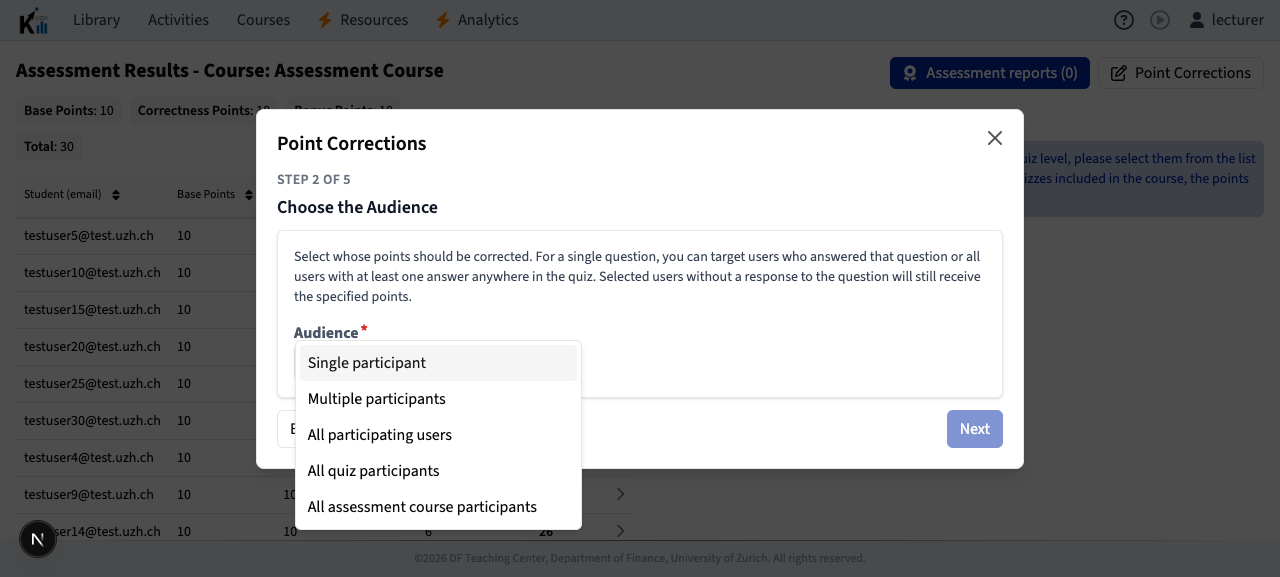
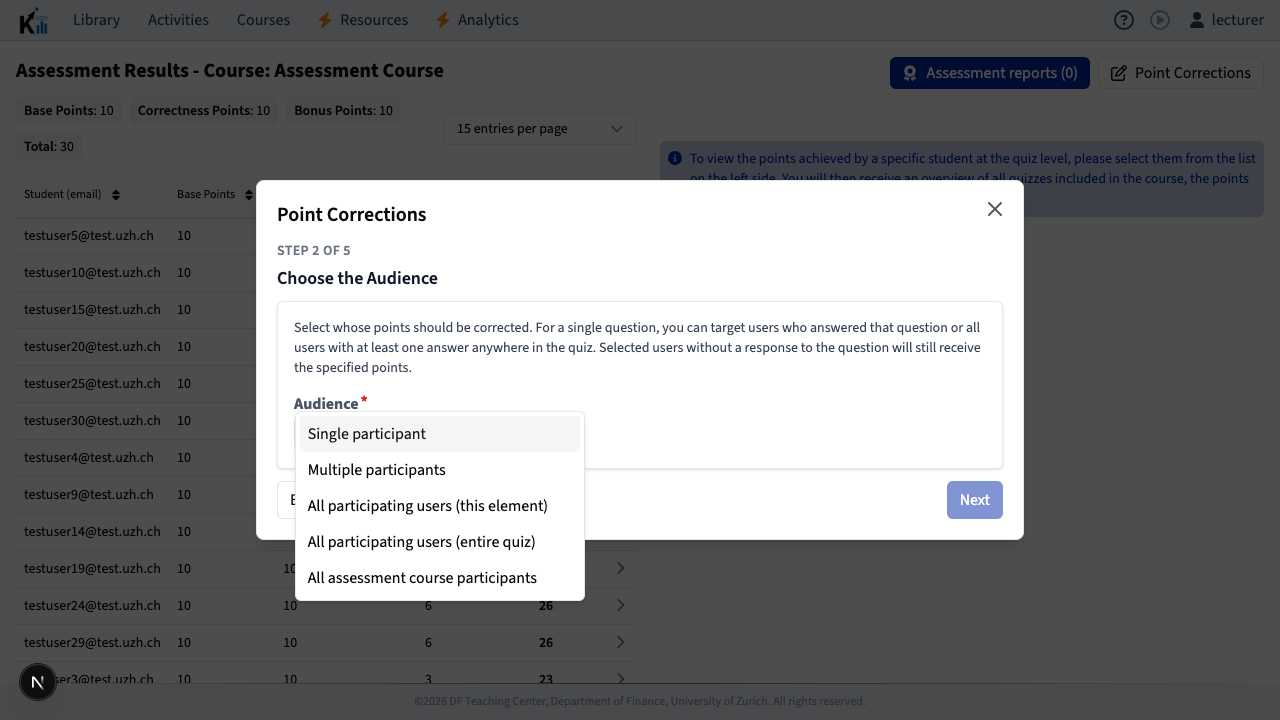
fix(assessment): clarify correction audience labels

diff --git a/packages/i18n/messages/de.ts b/packages/i18n/messages/de.ts
@@ -3423,7 +3423,10 @@ Da die KlickerUZH-App noch nicht im iOS-App-Store verfügbar ist, folgen Sie die
       audienceOptionSingle: 'Einzelne Person',
       audienceOptionMultiple: 'Mehrere Personen',
       audienceOptionParticipating: 'Alle teilnehmenden Nutzer',
-      audienceOptionParticipatingQuiz: 'Alle Quizteilnehmenden',
+      audienceOptionParticipatingElement:
+        'Alle teilnehmenden Nutzer (dieses Element)',
+      audienceOptionParticipatingQuiz:
+        'Alle teilnehmenden Nutzer (gesamtes Quiz)',
       audienceOptionCourse: 'Alle Teilnehmer des Assessment-Kurses',
       participantLabel: 'Teilnehmende Person',
       participantsLabel: 'Teilnehmende Personen',
@@ -3432,8 +3435,10 @@ Da die KlickerUZH-App noch nicht im iOS-App-Store verfügbar ist, folgen Sie die
       participantScopeSingle: 'Ausgewählte Person',
       participantScopeMultiple: 'Ausgewählte Personen',
       participantScopeParticipating: 'Alle teilnehmenden Nutzer',
+      participantScopeParticipatingElement:
+        'Alle teilnehmenden Nutzer (dieses Element)',
       participantScopeParticipatingQuiz:
-        'Alle Personen mit mindestens einer Antwort im Quiz',
+        'Alle teilnehmenden Nutzer (gesamtes Quiz)',
       participantScopeCourse: 'Alle Teilnehmer des Assessment-Kurses',
       adjustmentsTitle: 'Punkte anpassen',
       adjustmentsDescription:

diff --git a/packages/i18n/messages/en.ts b/packages/i18n/messages/en.ts
@@ -3369,7 +3369,9 @@ Since the KlickerUZH app is not yet available in the iOS App Store, follow these
       audienceOptionSingle: 'Single participant',
       audienceOptionMultiple: 'Multiple participants',
       audienceOptionParticipating: 'All participating users',
-      audienceOptionParticipatingQuiz: 'All quiz participants',
+      audienceOptionParticipatingElement:
+        'All participating users (this element)',
+      audienceOptionParticipatingQuiz: 'All participating users (entire quiz)',
       audienceOptionCourse: 'All assessment course participants',
       participantLabel: 'Participant',
       participantsLabel: 'Participants',
@@ -3378,8 +3380,10 @@ Since the KlickerUZH app is not yet available in the iOS App Store, follow these
       participantScopeSingle: 'Selected participant',
       participantScopeMultiple: 'Selected participants',
       participantScopeParticipating: 'All participating users',
+      participantScopeParticipatingElement:
+        'All participating users (this element)',
       participantScopeParticipatingQuiz:
-        'All users with at least one answer in the quiz',
+        'All participating users (entire quiz)',
       participantScopeCourse: 'All assessment course participants',
       adjustmentsTitle: 'Adjust Points',
       adjustmentsDescription:

diff --git a/apps/frontend-manage/src/components/courses/pointCorrections/PointCorrectionsSummaryStep.tsx b/apps/frontend-manage/src/components/courses/pointCorrections/PointCorrectionsSummaryStep.tsx
@@ -28,9 +28,10 @@ function PointCorrectionsSummaryStep({
     [PointCorrectionType.Multiple]: t(
       'manage.pointCorrections.participantScopeMultiple'
     ),
-    [PointCorrectionType.Participating]: t(
-      'manage.pointCorrections.participantScopeParticipating'
-    ),
+    [PointCorrectionType.Participating]:
+      values.scopeType === 'instance'
+        ? t('manage.pointCorrections.participantScopeParticipatingElement')
+        : t('manage.pointCorrections.participantScopeParticipating'),
     [PointCorrectionType.ParticipatingQuiz]: t(
       'manage.pointCorrections.participantScopeParticipatingQuiz'
     ),

diff --git a/apps/frontend-manage/src/components/courses/pointCorrections/PointCorrectionsAudienceStep.tsx b/apps/frontend-manage/src/components/courses/pointCorrections/PointCorrectionsAudienceStep.tsx
@@ -61,7 +61,12 @@ function PointCorrectionsAudienceStep({
               },
               {
                 value: PointCorrectionType.Participating,
-                label: t('manage.pointCorrections.audienceOptionParticipating'),
+                label:
+                  scopeField.value === 'instance'
+                    ? t(
+                        'manage.pointCorrections.audienceOptionParticipatingElement'
+                      )
+                    : t('manage.pointCorrections.audienceOptionParticipating'),
               },
               ...(scopeField.value === 'instance'
                 ? [

diff --git a/project/plans_archive/PLAN-assessment-element-quiz-participants.md b/project/plans_archive/PLAN-assessment-element-quiz-participants.md
@@ -272,6 +272,94 @@ item only for `scopeType === 'instance'`:
 - [x] Prepare the conventional implementation commit and draft PR body against
       `v3`, including verification results and browser screenshots.
 
+### Task 7: Qualify the two element participation labels
+
+**Files:**
+
+- Modify
+  `apps/frontend-manage/src/components/courses/pointCorrections/PointCorrectionsAudienceStep.tsx`.
+- Modify
+  `apps/frontend-manage/src/components/courses/pointCorrections/PointCorrectionsSummaryStep.tsx`.
+- Modify `packages/i18n/messages/en.ts`.
+- Modify `packages/i18n/messages/de.ts`.
+- Refresh
+  `docs/images/2026-08-14-element-point-correction/element-audience-options.png`.
+- Refresh
+  `docs/images/2026-08-14-element-point-correction/quiz-audience-options.png`.
+
+**Interface produced:** element corrections display scope-qualified labels in
+the audience selector and summary, while quiz corrections retain the existing
+unqualified participating-user label. Persisted enum values and mutation input
+stay unchanged.
+
+- [x] Add the English keys and exact values:
+
+  ```ts
+  audienceOptionParticipatingElement:
+    'All participating users (this element)',
+  audienceOptionParticipatingQuiz:
+    'All participating users (entire quiz)',
+  participantScopeParticipatingElement:
+    'All participating users (this element)',
+  participantScopeParticipatingQuiz:
+    'All participating users (entire quiz)',
+  ```
+
+  Add the German equivalents:
+
+  ```ts
+  audienceOptionParticipatingElement:
+    'Alle teilnehmenden Nutzer (dieses Element)',
+  audienceOptionParticipatingQuiz:
+    'Alle teilnehmenden Nutzer (gesamtes Quiz)',
+  participantScopeParticipatingElement:
+    'Alle teilnehmenden Nutzer (dieses Element)',
+  participantScopeParticipatingQuiz:
+    'Alle teilnehmenden Nutzer (gesamtes Quiz)',
+  ```
+
+- [x] Make the existing `PARTICIPATING` selector label scope-aware:
+
+  ```tsx
+  label:
+    scopeField.value === 'instance'
+      ? t(
+          'manage.pointCorrections.audienceOptionParticipatingElement'
+        )
+      : t('manage.pointCorrections.audienceOptionParticipating'),
+  ```
+
+  Continue rendering `PARTICIPATING_QUIZ` only for instance scope, using the
+  updated `audienceOptionParticipatingQuiz` translation.
+
+- [x] Make the summary label for `PARTICIPATING` scope-aware:
+
+  ```tsx
+  [PointCorrectionType.Participating]:
+    values.scopeType === 'instance'
+      ? t(
+          'manage.pointCorrections.participantScopeParticipatingElement'
+        )
+      : t('manage.pointCorrections.participantScopeParticipating'),
+  ```
+
+  Keep `PARTICIPATING_QUIZ` mapped to the updated
+  `participantScopeParticipatingQuiz` translation.
+
+- [x] Run
+  `pnpm --filter @klicker-uzh/frontend-manage check` inside the managed
+  DevPod. Expected result: exit 0 with TypeScript validation successful.
+- [x] Use `npx agent-browser@0.32.2` with delegated login against the real
+  Manage route. Verify English and German element scope show the two qualified
+  labels, whole-quiz scope still shows the unqualified label, and refresh both
+  existing screenshots.
+- [x] Run Prettier/Biome checks for the changed files, `git diff --check`, and
+  changed-file OpenGrep. Expected result: all format/type checks pass and no
+  new actionable static-analysis findings.
+- [x] Move this plan back to `project/plans_archive/` after implementation,
+  browser verification, and final branch review; prepare the copy-only change
+  for draft PR #5395.
+
 ## Progress
 
 - **2026-08-14:** Traced the existing four correction audiences through the
@@ -304,3 +392,10 @@ item only for `scopeType === 'instance'`:
 - **2026-08-14:** The requester approved parallel scope-qualified labels for
   the two participation audiences shown for an element. This is a copy-only
   refinement; persisted enum values and correction eligibility stay unchanged.
+- **2026-08-14:** Implemented the refined English and German labels and made
+  the selector and confirmation summary scope-aware. The focused Manage check
+  passes. Browser verification on the real seeded assessment page confirmed
+  five qualified element audiences, four unchanged quiz audiences, and the
+  German element-audience summary; both PR screenshots were refreshed.
+- **2026-08-14:** Biome and Prettier checks pass, `git diff --check` is clean,
+  and OpenGrep reports zero findings across the four changed TypeScript files.
